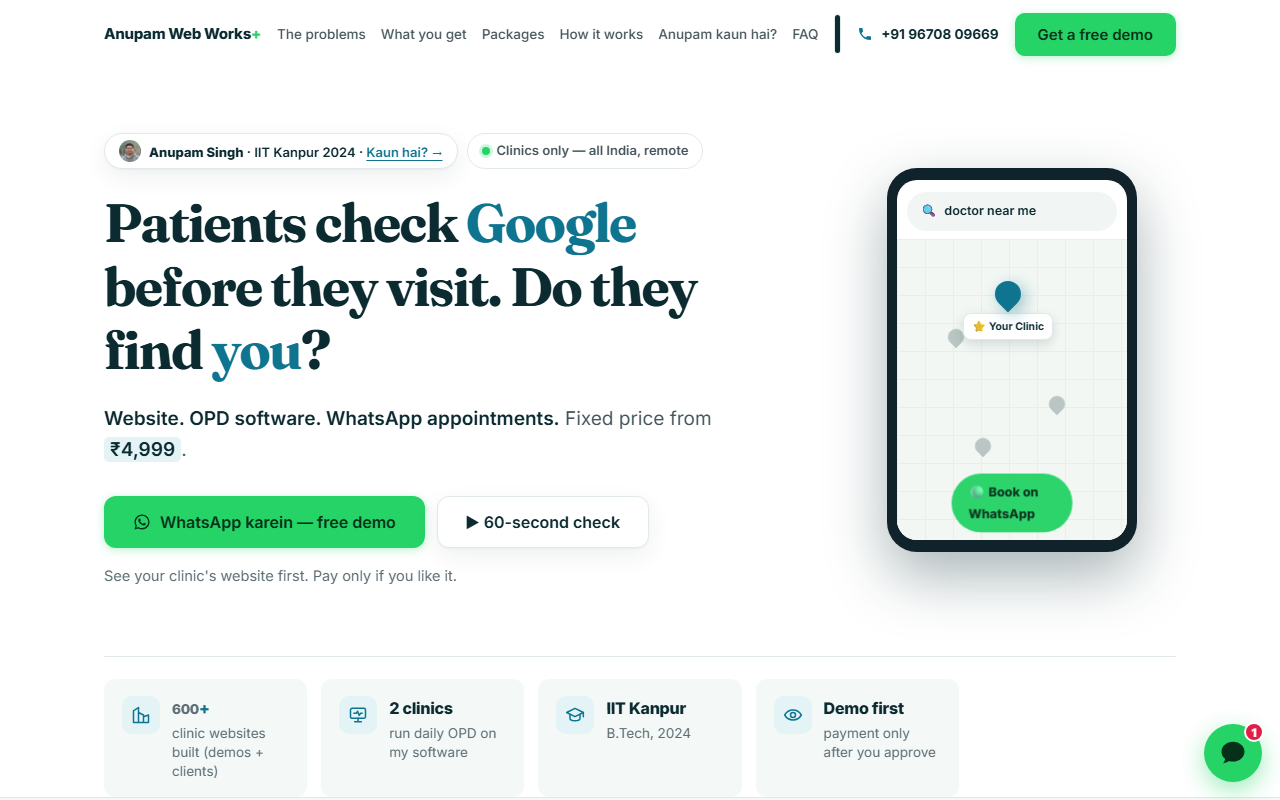
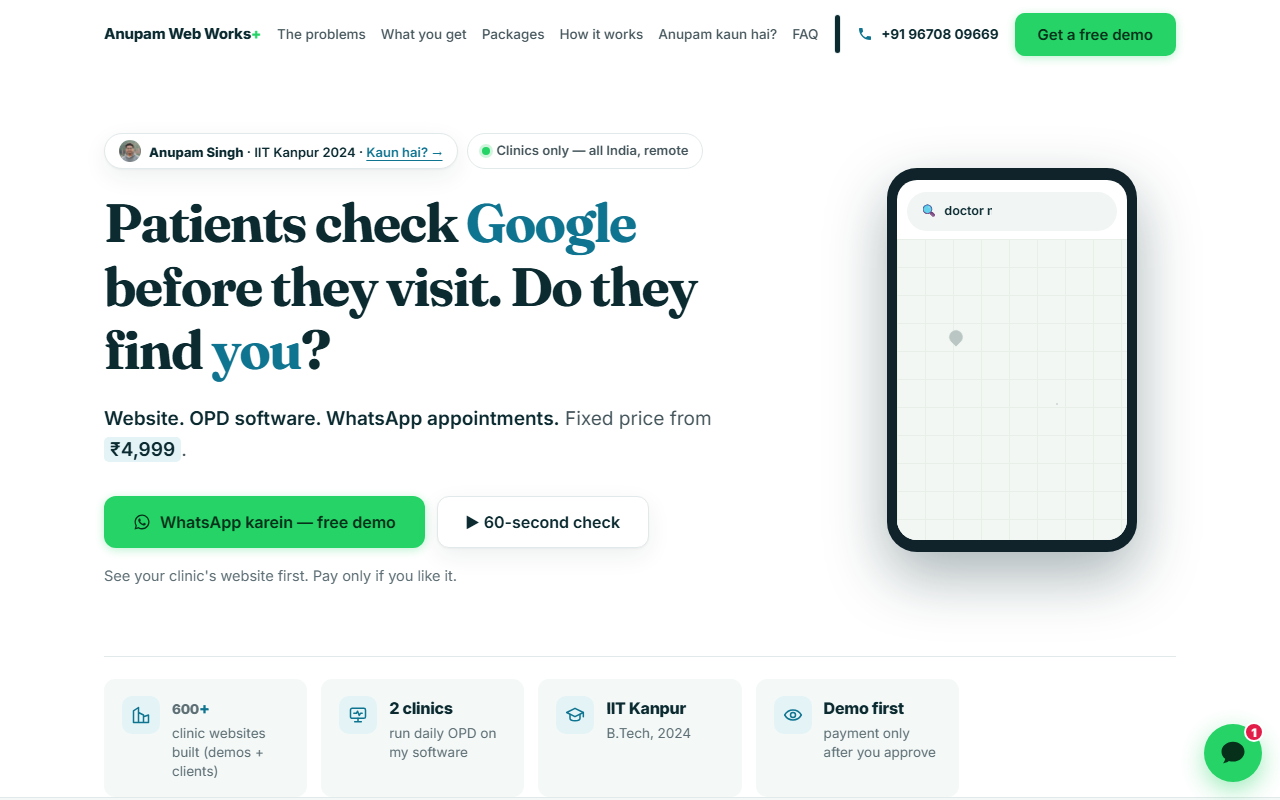
QA artifacts: cert viewer shots + facade shot scripts

diff --git a/_review/shots_facade2.py b/_review/shots_facade2.py
@@ -1,0 +1,18 @@
+# -*- coding: utf-8 -*-
+from playwright.sync_api import sync_playwright
+
+with sync_playwright() as p:
+    b = p.chromium.launch()
+    pg = b.new_context(viewport={"width": 1280, "height": 800}).new_page()
+    pg.goto("https://aww-preview.web.app/", wait_until="networkidle")
+    pg.wait_for_timeout(1500)
+    shots = pg.locator(".lazyfr--shot")
+    print("count:", shots.count())
+    for i in range(shots.count()):
+        box = shots.nth(i).bounding_box()
+        print(i, box)
+    shots.first.scroll_into_view_if_needed()
+    pg.wait_for_timeout(1200)
+    pg.screenshot(path="_review/audit_shots/final-facades2.png")
+    b.close()
+print("OK")

diff --git a/_review/shots_final.py b/_review/shots_final.py
@@ -7,8 +7,11 @@ with sync_playwright() as p:
     pg.goto("https://aww-preview.web.app/", wait_until="networkidle")
     pg.wait_for_timeout(1800)
     pg.screenshot(path="_review/audit_shots/final-hero.png")
-    pg.eval_on_selector(".work--clients", "e=>e.scrollIntoView({block:'center'})")
+    pg.eval_on_selector(".work__item", "e=>e.scrollIntoView({block:'center'})")
     pg.wait_for_timeout(1200)
     pg.screenshot(path="_review/audit_shots/final-proof.png")
+    pg.eval_on_selector("#demo-video", "e=>e.scrollIntoView({block:'center'})")
+    pg.wait_for_timeout(1200)
+    pg.screenshot(path="_review/audit_shots/final-video.png")
     b.close()
 print("OK")

diff --git a/_review/shots_facade.py b/_review/shots_facade.py
@@ -1,0 +1,13 @@
+# -*- coding: utf-8 -*-
+from playwright.sync_api import sync_playwright
+
+with sync_playwright() as p:
+    b = p.chromium.launch()
+    pg = b.new_context(viewport={"width": 1280, "height": 800}).new_page()
+    pg.goto("https://aww-preview.web.app/", wait_until="networkidle")
+    pg.wait_for_timeout(1500)
+    pg.eval_on_selector(".lazyfr--shot", "e=>e.scrollIntoView({block:'center'})")
+    pg.wait_for_timeout(1500)
+    pg.screenshot(path="_review/audit_shots/final-facades.png")
+    b.close()
+print("OK")
